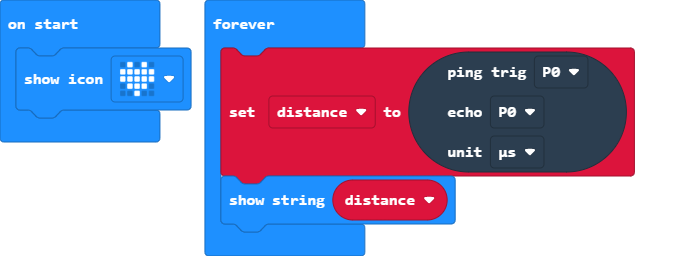
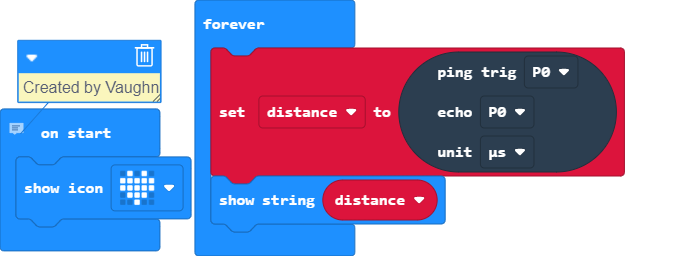
final commit

diff --git a/main.ts b/main.ts
@@ -1,3 +1,8 @@
+// Created by Vaughn Hatherall
+// Created on October 1 2020
+// 
+// This program detects how far something is
+// 
 let distance2 = 0
 basic.showIcon(IconNames.Heart)
 basic.forever(function () {
